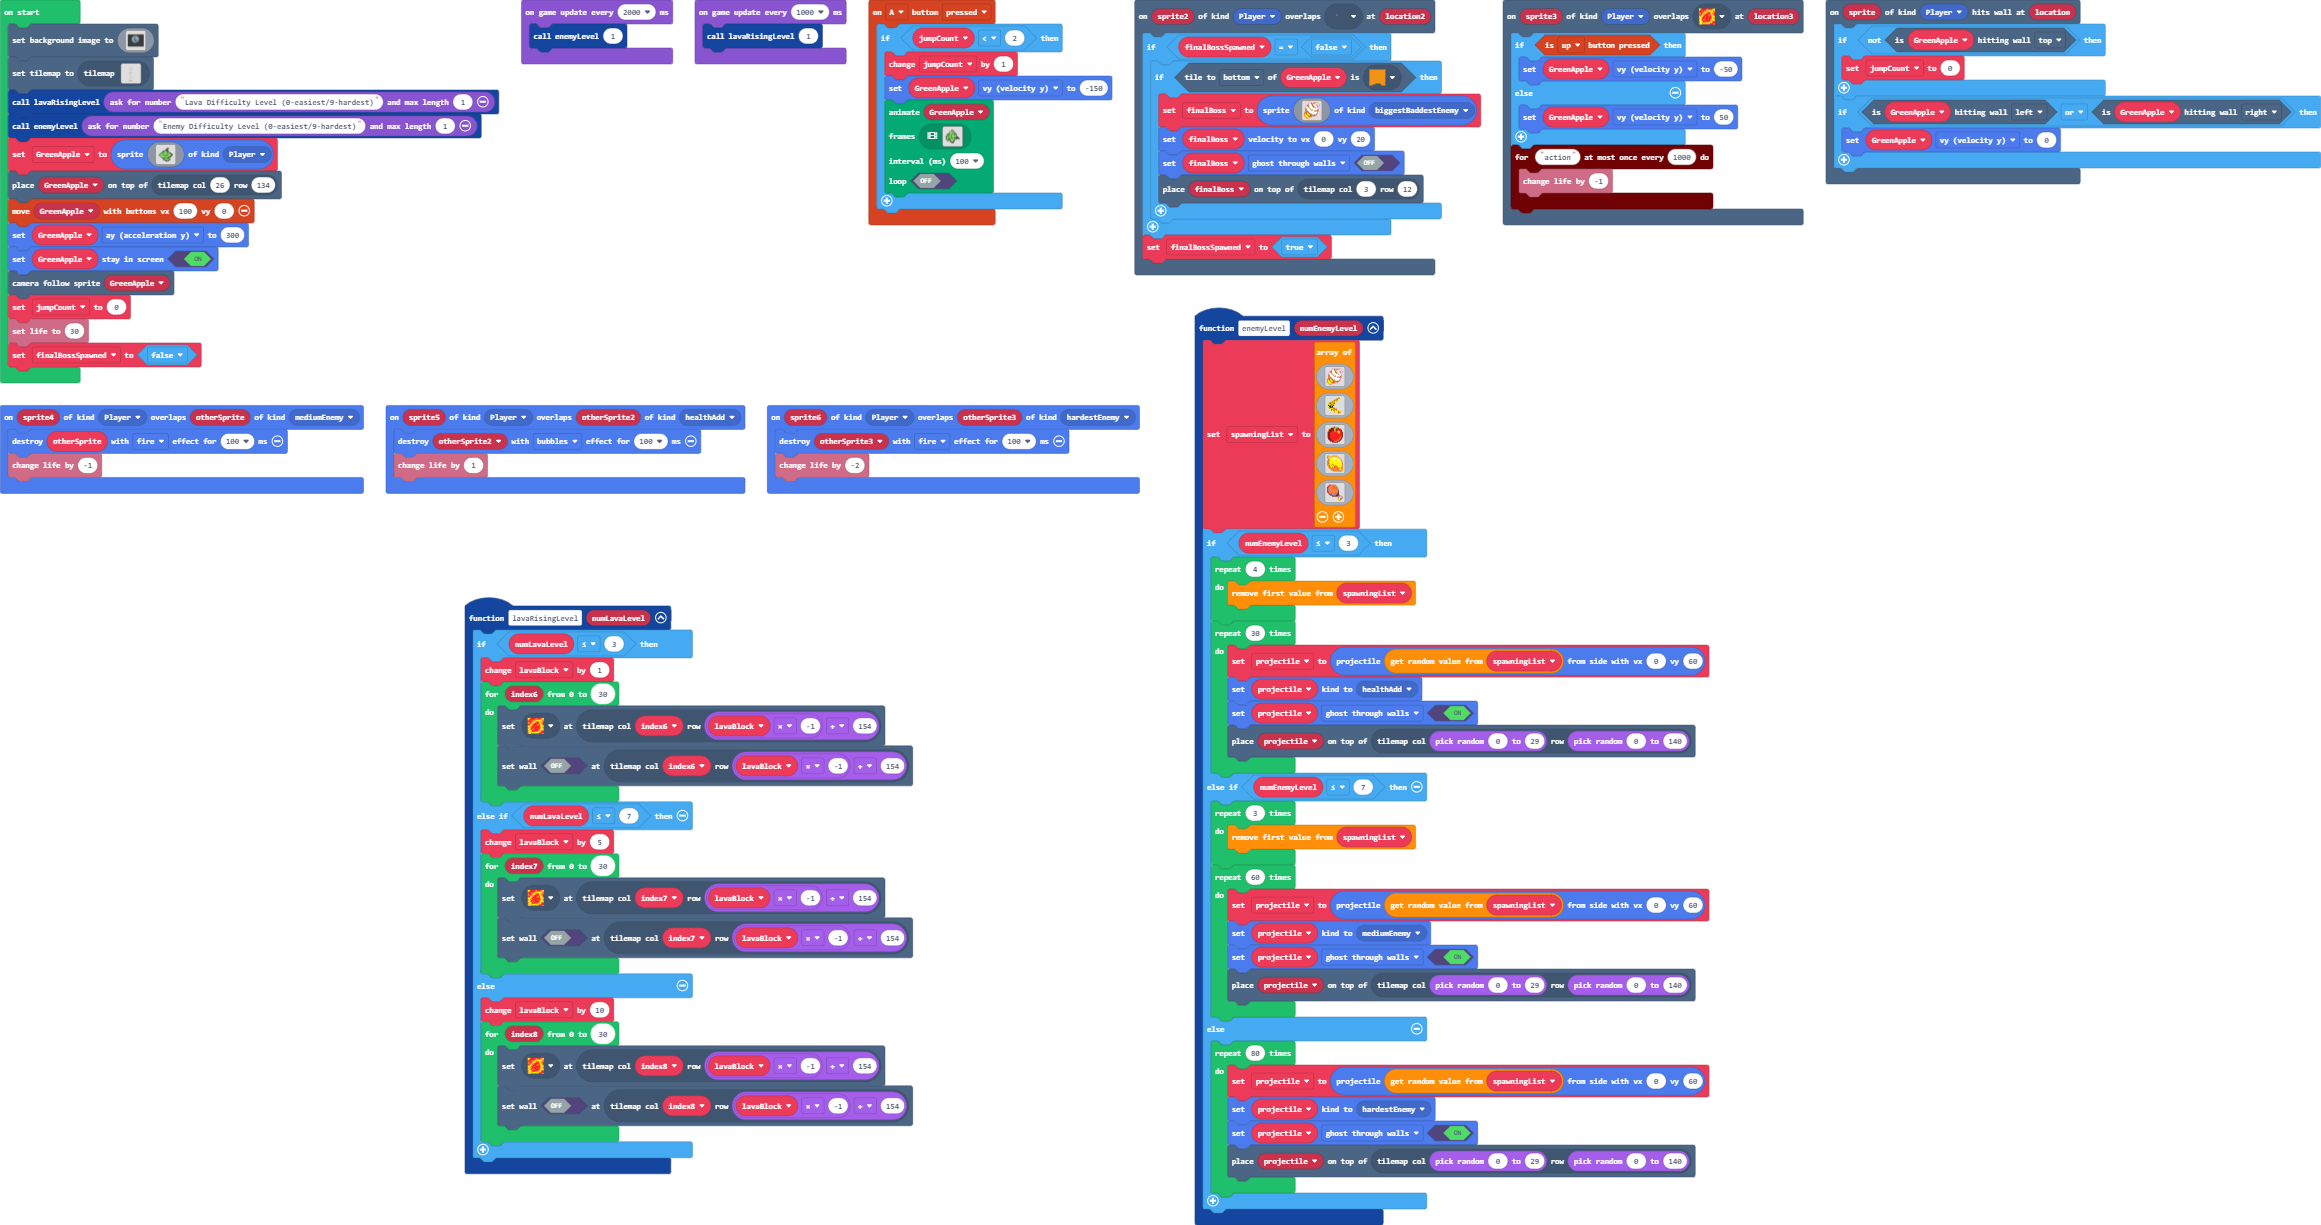
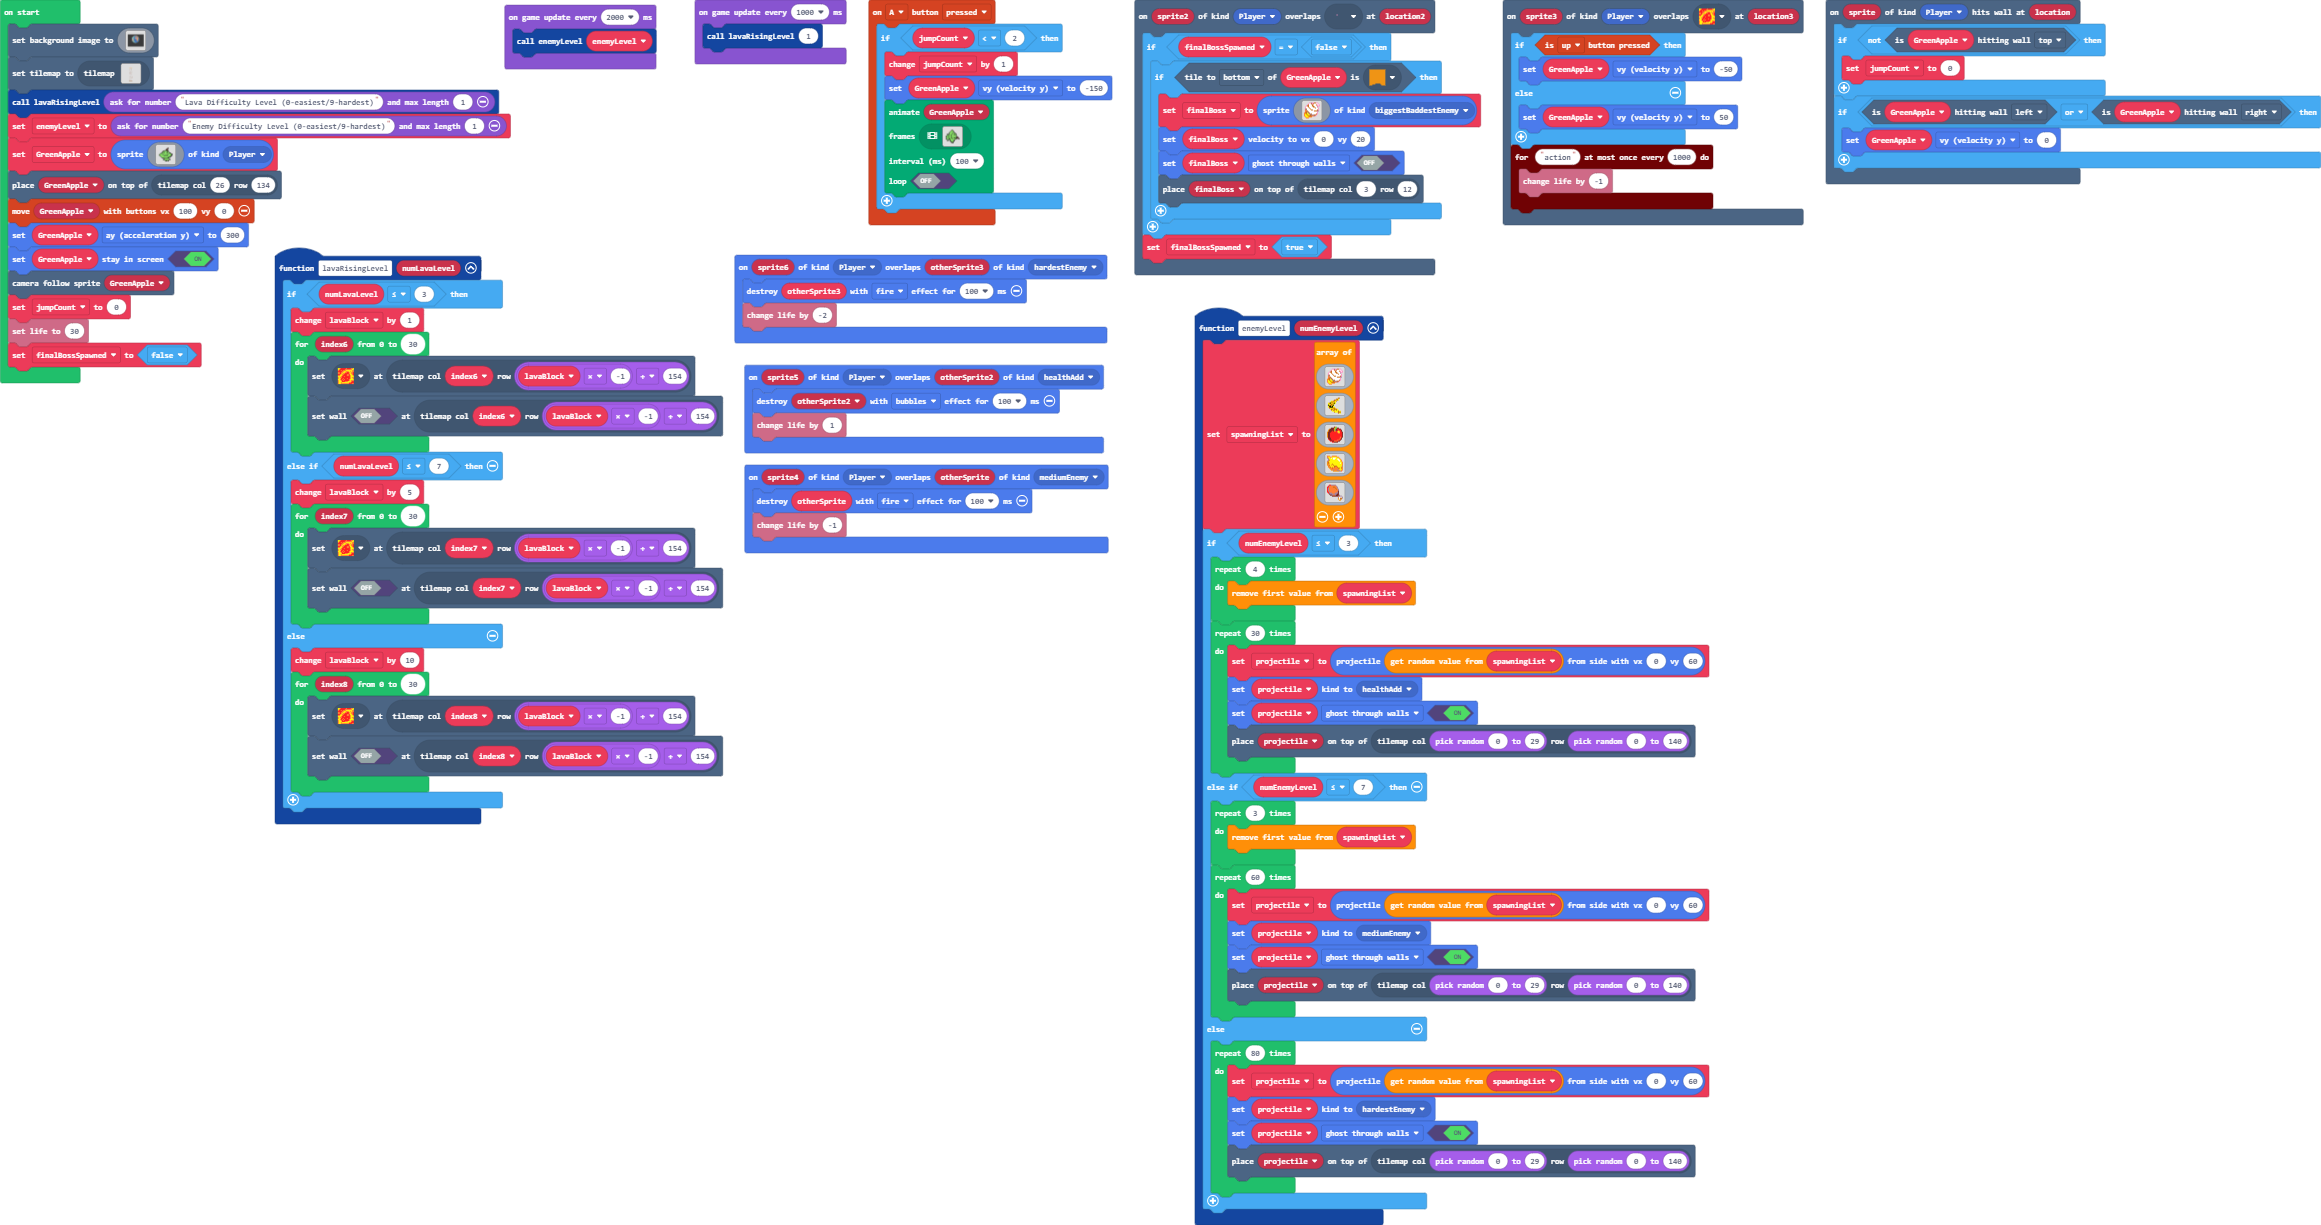
Hiphip Hooray!

Changed region(s): [[0.0, 0.1861, 0.4963, 0.9616], [0.0, 0.0931, 0.2171, 0.1241], [0.2171, 0.0, 0.3102, 0.062]]

diff --git a/main.ts b/main.ts
@@ -387,7 +387,7 @@ scene.setBackgroundImage(img`
     `)
 tiles.setCurrentTilemap(tilemap`level1`)
 lavaRisingLevel(game.askForNumber("Lava Difficulty Level (0-easiest/9-hardest)", 1))
-enemyLevel(game.askForNumber("Enemy Difficulty Level (0-easiest/9-hardest)", 1))
+let enemyLevel2 = game.askForNumber("Enemy Difficulty Level (0-easiest/9-hardest)", 1)
 GreenApple = sprites.create(assets.image`myImage`, SpriteKind.Player)
 tiles.placeOnTile(GreenApple, tiles.getTileLocation(26, 134))
 controller.moveSprite(GreenApple, 100, 0)
@@ -398,7 +398,7 @@ jumpCount = 0
 info.setLife(30)
 finalBossSpawned = false
 game.onUpdateInterval(2000, function () {
-    enemyLevel(1)
+    enemyLevel(enemyLevel2)
 })
 game.onUpdateInterval(1000, function () {
     lavaRisingLevel(1)
